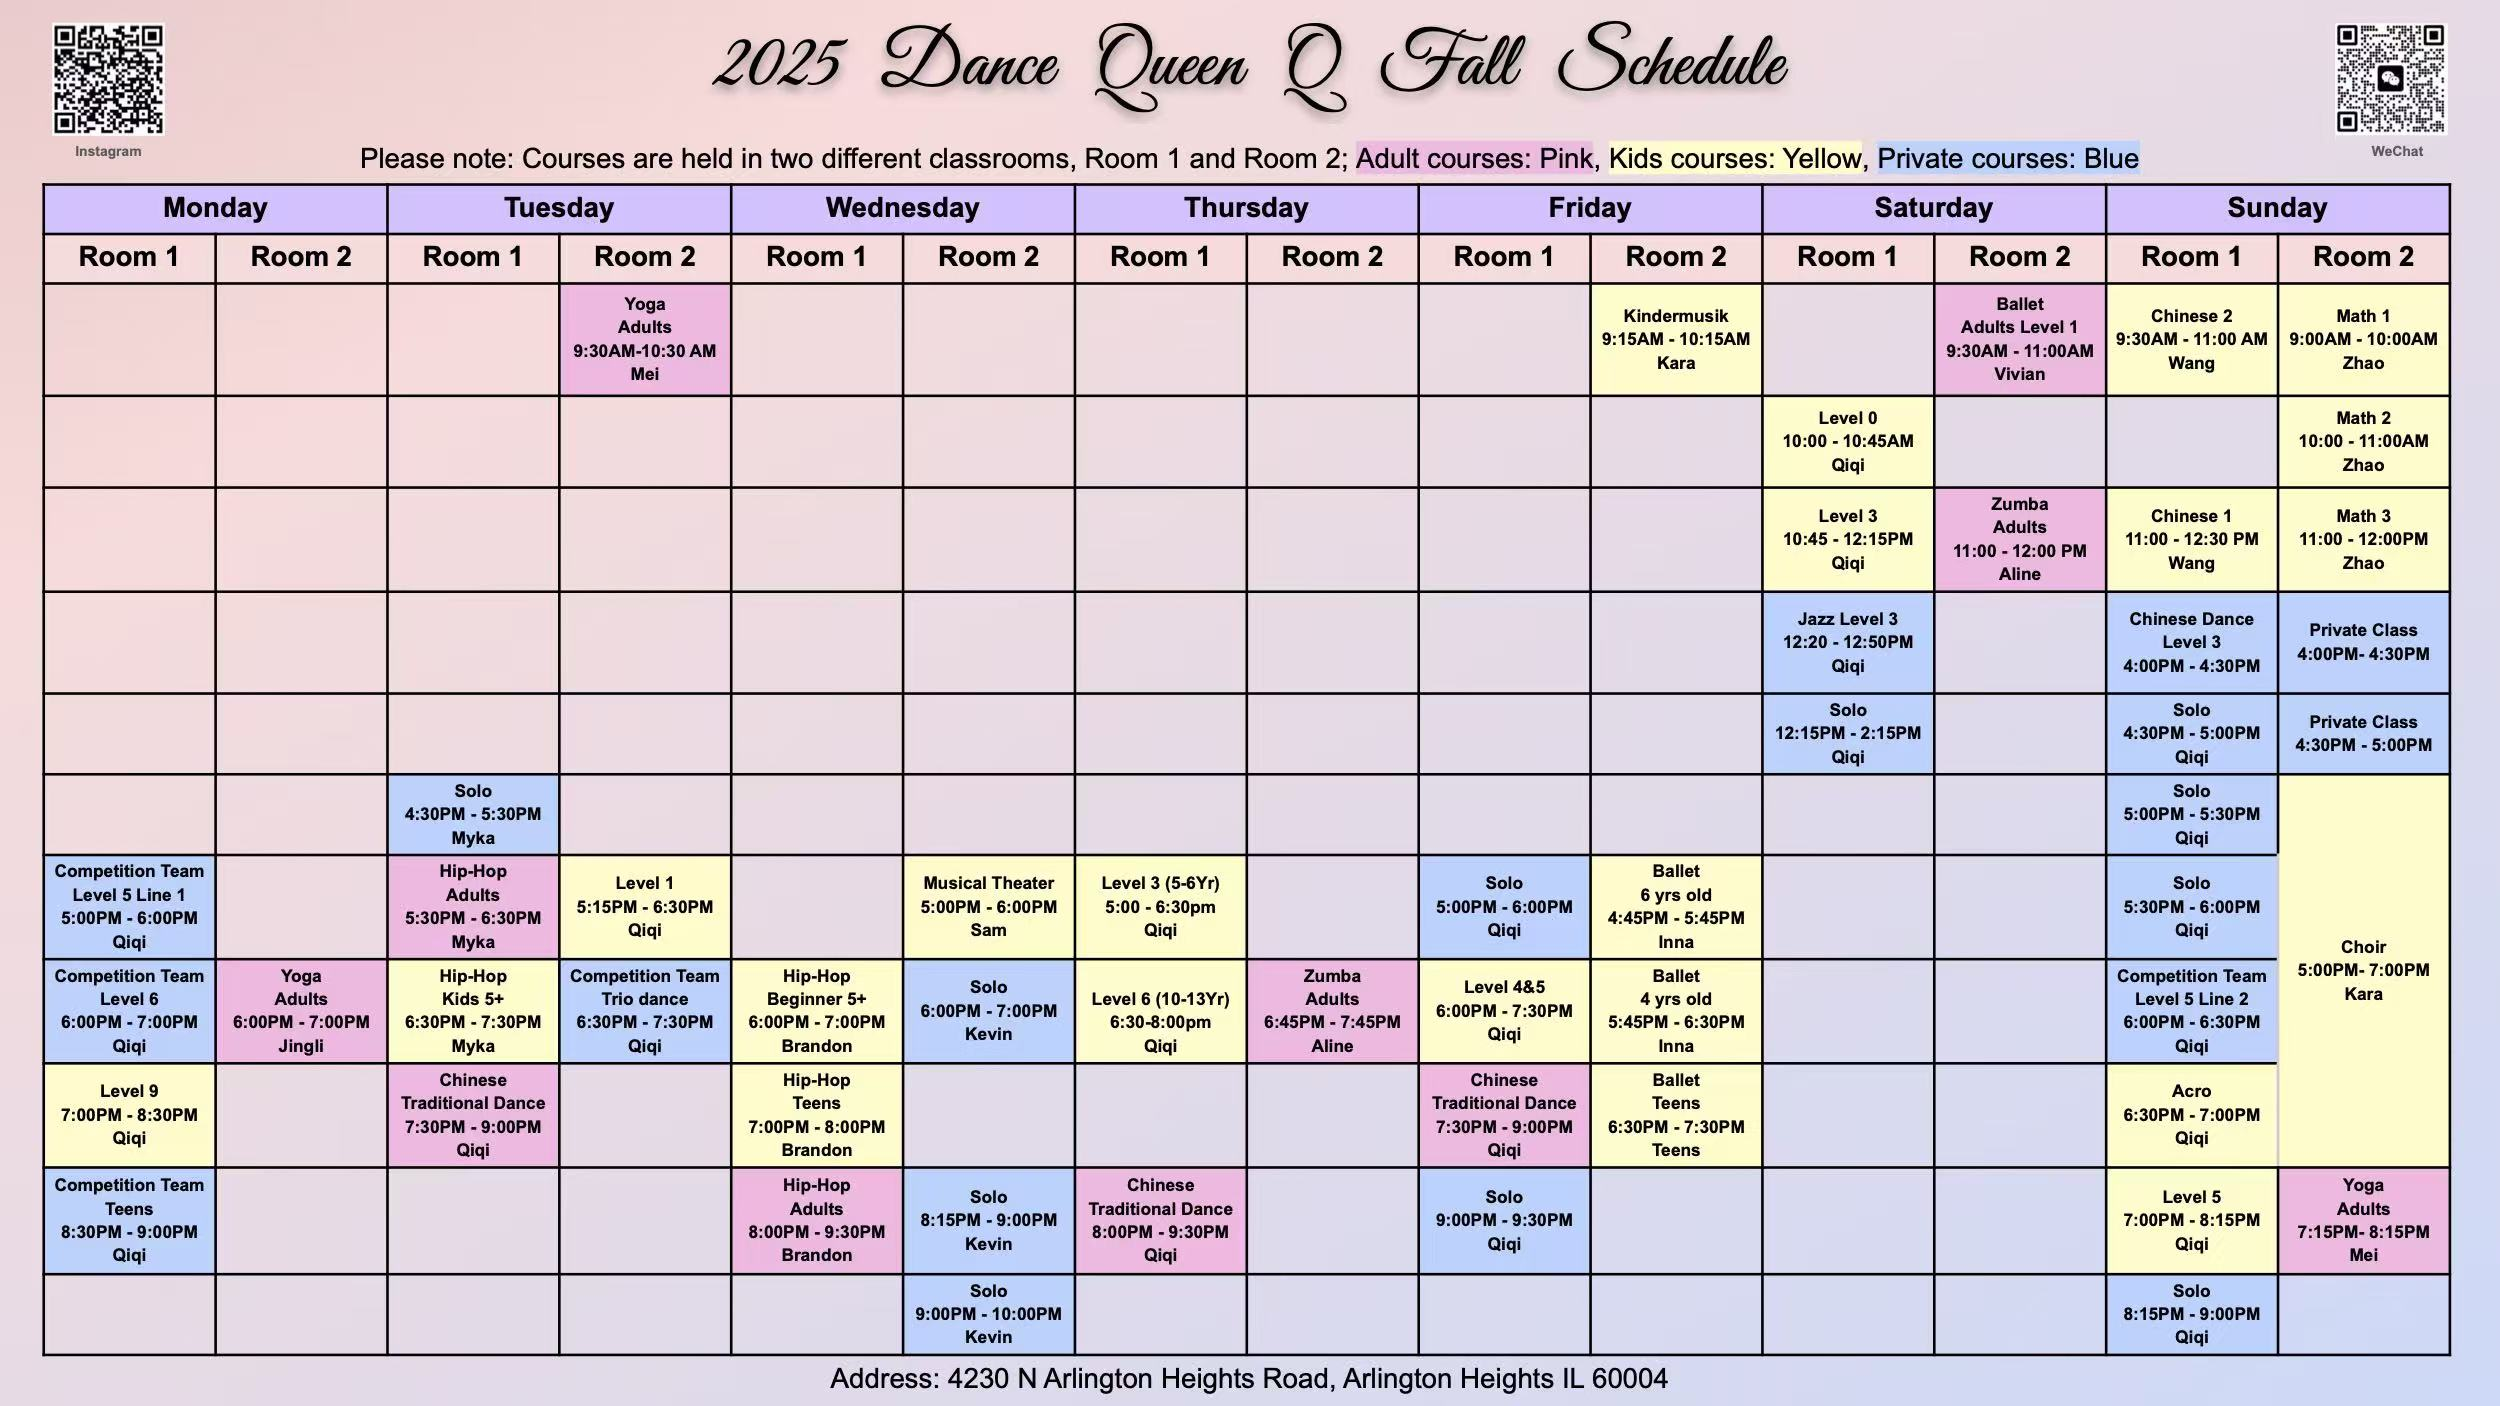
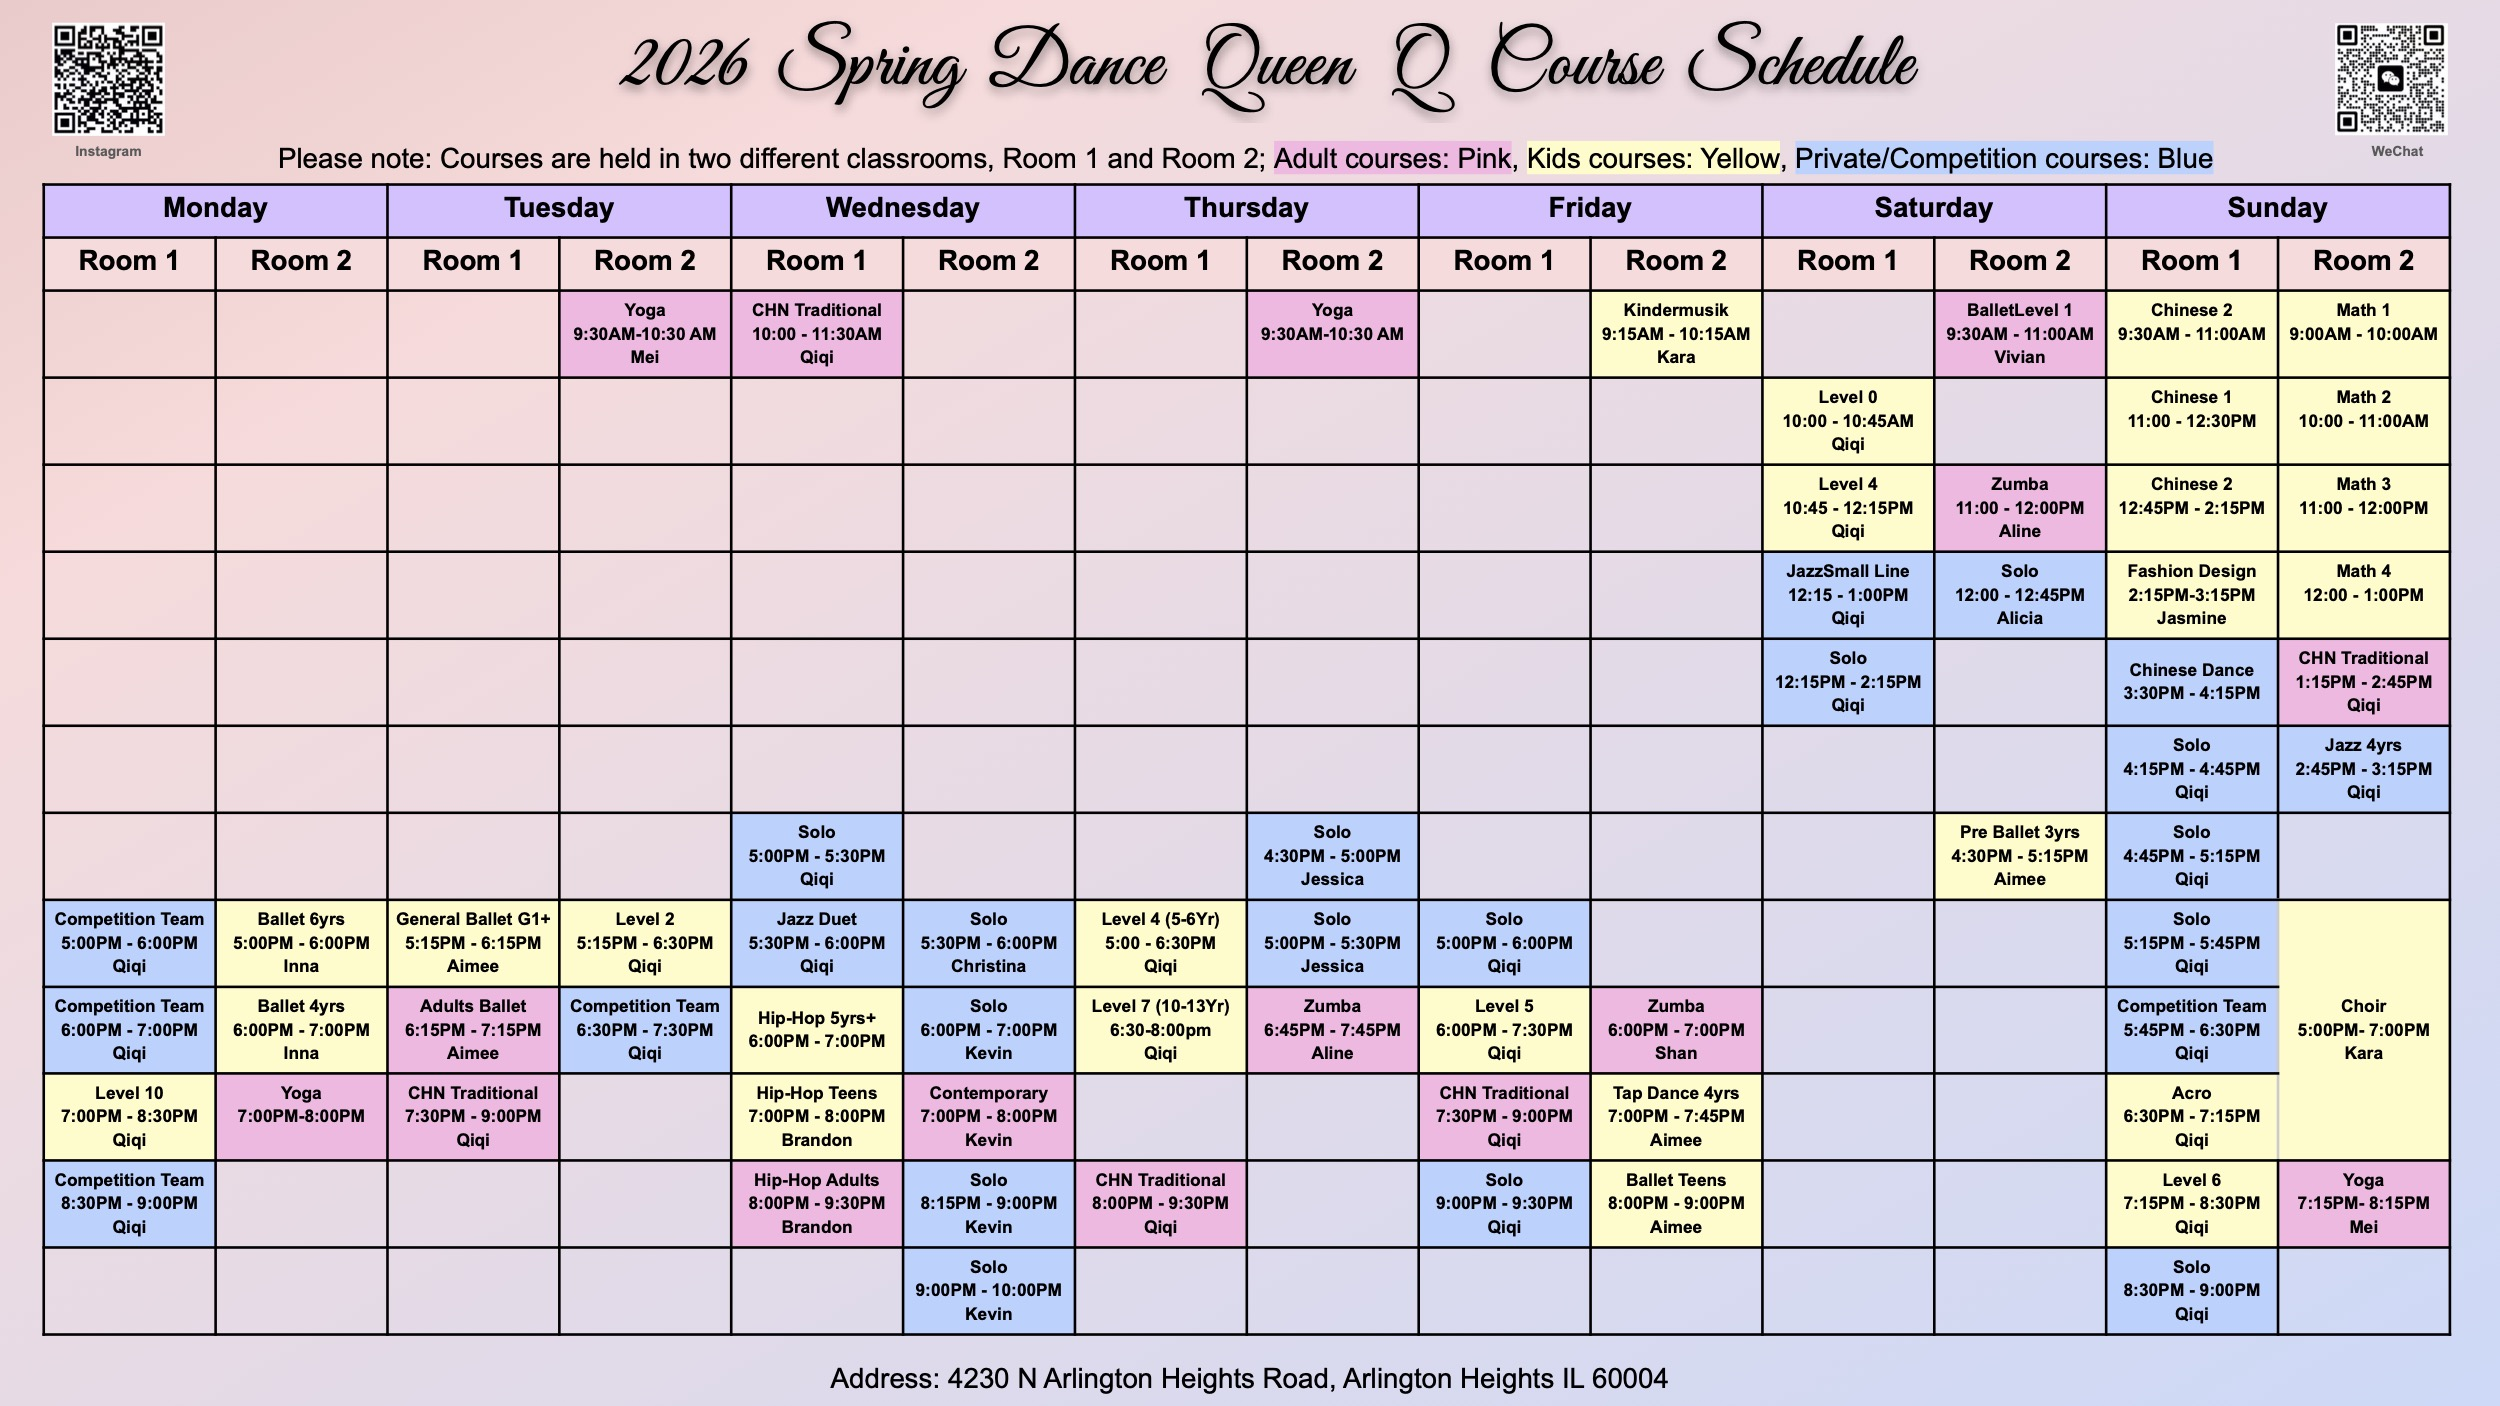
update class schedules

Changed region(s): [[0.0, 0.1529, 0.9984, 0.9787], [0.1248, 0.0, 0.9048, 0.1223]]

diff --git a/classes.html b/classes.html
@@ -45,6 +45,15 @@
             <div class="schedule-image-container">
                 <img src="images/classes/classes.jpg" alt="Class Schedule" class="schedule-image" onclick="window.open('images/classes/classes.jpg', '_blank')">
             </div>
+            <div class="schedule-image-container">
+                <img src="images/classes/Schedule1.jpg" alt="Class Schedule 1" class="schedule-image" onclick="window.open('images/classes/Schedule1.jpg', '_blank')">
+            </div>
+            <div class="schedule-image-container">
+                <img src="images/classes/Schedule2.jpg" alt="Class Schedule 2" class="schedule-image" onclick="window.open('images/classes/Schedule2.jpg', '_blank')">
+            </div>
+            <div class="schedule-image-container">
+                <img src="images/classes/Schedule3.jpg" alt="Class Schedule 3" class="schedule-image" onclick="window.open('images/classes/Schedule3.jpg', '_blank')">
+            </div>
         </div>
     </section>
 
